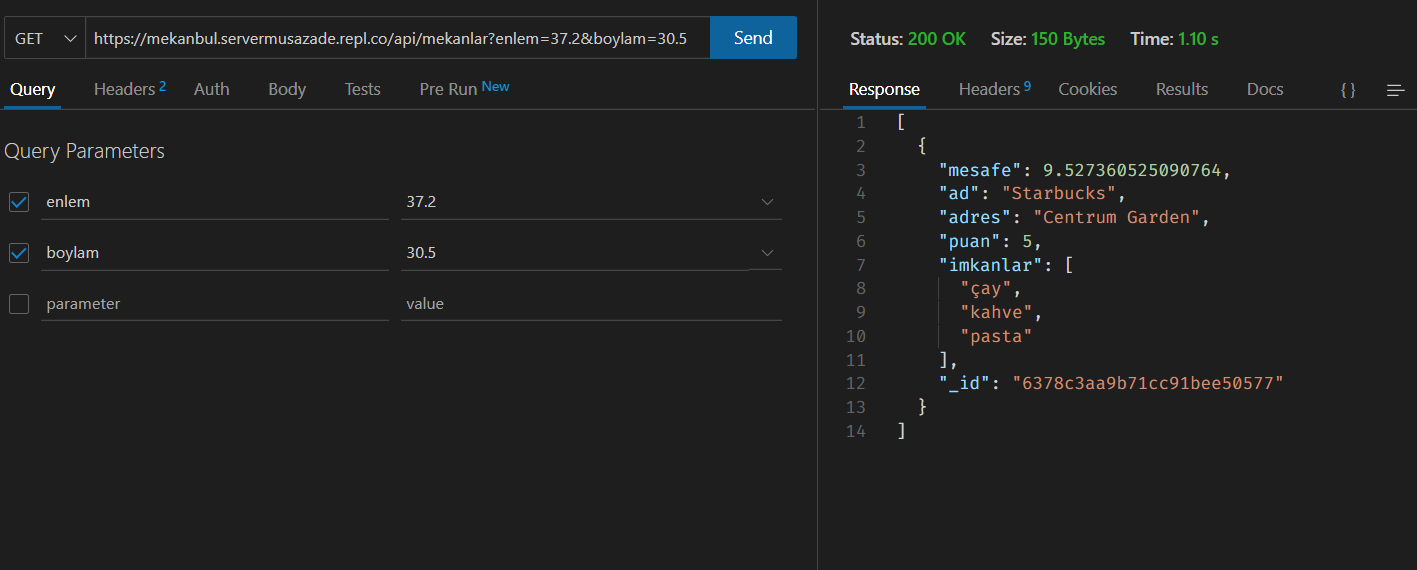
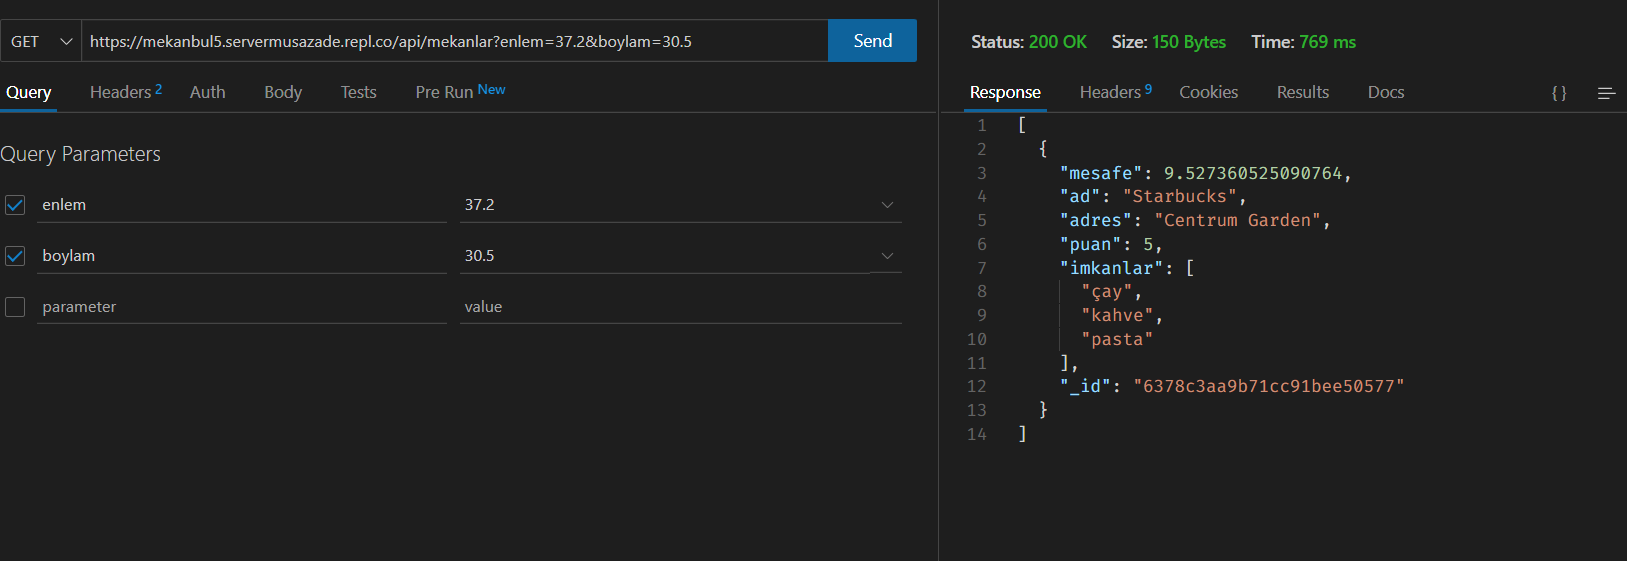
readme file updated

diff --git a/README.md b/README.md
@@ -2,15 +2,15 @@
 
 ### 1. Girilen Konum Civarındaki Mekanları Listele
 
-https://mekanbul.servermusazade.repl.co/api/mekanlar?enlem=37.2&boylam=30.5
+https://mekanbul5.servermusazade.repl.co/api/mekanlar?enlem=37.2&boylam=30.5
 ![1](/photos/konum.png)
 
 ### 2. Mekan ID ile Mekan Bilgileri Getir
 
-https://mekanbul.servermusazade.repl.co/api/mekanlar/6378c3aa9b71cc91bee50577
+https://mekanbul5.servermusazade.repl.co/api/mekanlar/6378c3aa9b71cc91bee50577
 ![2](/photos/mekanlar.png)
 
 ### 3. Bir Mekana Ait Belirli Bir Yorumu Getir
 
-https://mekanbul.servermusazade.repl.co/api/mekanlar/6378c3aa9b71cc91bee50577/yorumlar/6378c3b56df2de94fc5df7c8
+https://mekanbul5.servermusazade.repl.co/api/mekanlar/6378c3aa9b71cc91bee50577/yorumlar/6378c3b56df2de94fc5df7c8
 ![3](/photos/yorumlar.png)
